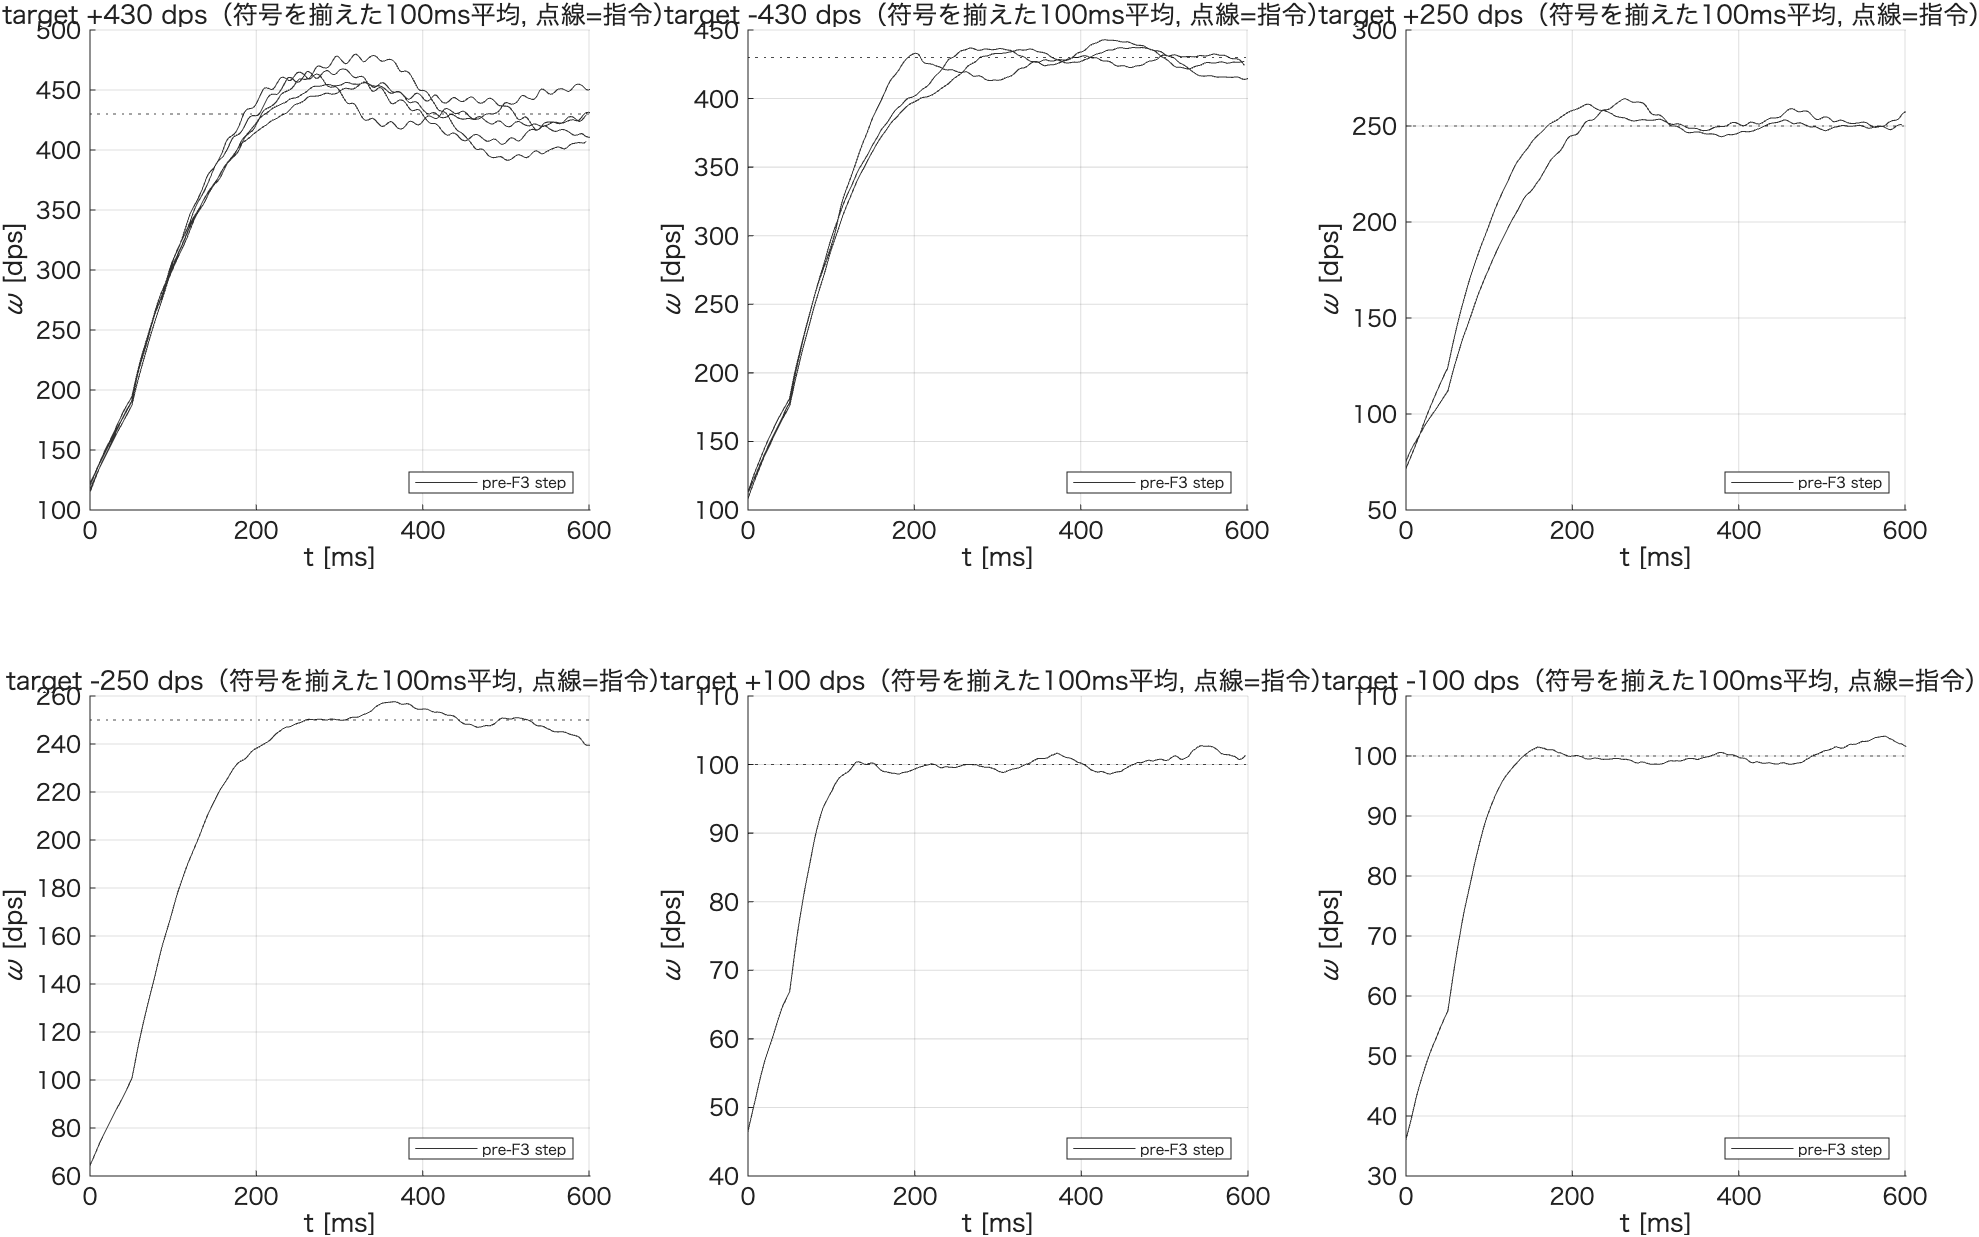
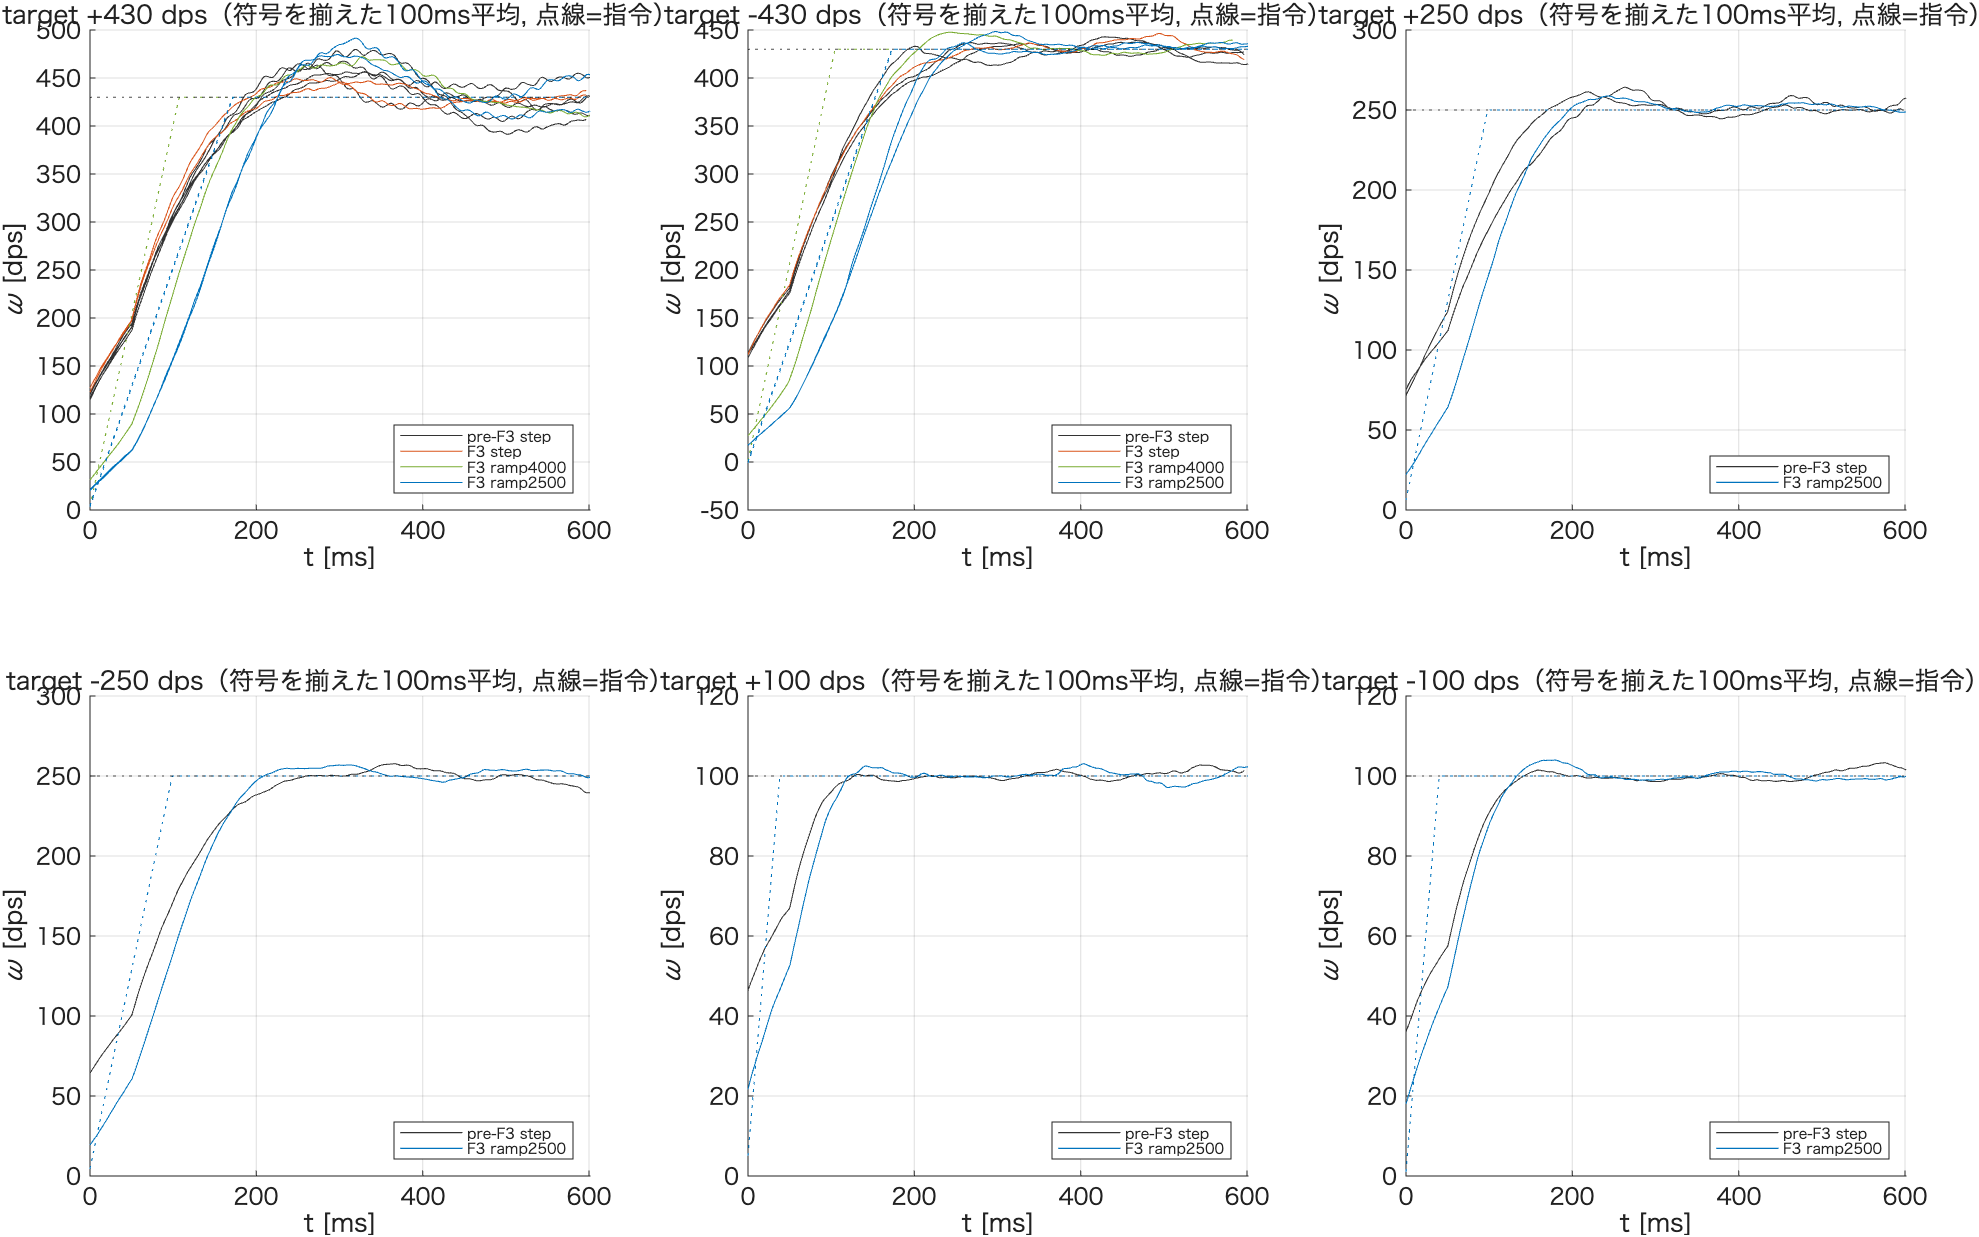
Analyze omega F3 hardware test (E7): ramp does not reduce +side overshoot
The 2500 dps/s^2 ramp keeps -430, +-250 and +-100 within criteria but gives
10-14% overshoot at +430 (step: 4-12%), with the same peak height. Local plant
regression on closed-loop data gives T_loc ~290 ms on the + side vs ~75 ms on
the - side, so Ti(430)=65 ms is far below T_loc on the + side; a linear
sensitivity map shows overshoot is set by Ti/T_loc. Proposes a direction
dependent Ti table (F4, not implemented).

diff --git a/data_analysis2/rot_local_model_fit.m b/data_analysis2/rot_local_model_fit.m
@@ -1,0 +1,50 @@
+%% 閉ループ実機データから動作点まわりの局所プラント（ゲイン・時定数）を推定し，オーバーシュートの原因を調べる
+%
+% 背景：+430/+400でステップ指令でもランプ指令でも同程度(8〜14%)のオーバーシュートが出る。
+% 0からのstep応答から作ったプラントモデル(H1/H4)は実機のOSを再現できない(rot_gain_scheduling_plan.md §12, §14)。
+% PI(Kc, Ti)＋一次遅れ(K, T)では，Ti < T のときPIの零点がプラントの極より速く，指令の形によらず
+% オーバーシュートが出る。実機の閉ループデータで局所的な T を直接推定して確かめる。
+%
+% 手法：定常付近(ωが目標の70%超)の区間で，スムージングした ω̇ を u と ω に回帰
+%       d(w)/dt = c + a*u - b*w        （K_loc = a/b [dps/duty], T_loc = 1/b [s]）
+% 閉ループ(uがωに依存)のため同定はバイアスを持ちうる。グループ内のrun間ばらつきと，
+% 推定した局所モデル上でのPI閉ループ模擬が実測OSを再現するかで妥当性を判断する。
+
+clear; clc;
+results_dir = 'results';
+dirs = {'../tools/log/omega_step_v700_x/', '../tools/log/omega_ramp_v700_x/'};
+
+% 対象：|目標|=430の全run（+と-）を，方向×指令方式で集計
+L = [dir([dirs{1} 'omega_*430*.csv']); dir([dirs{2} 'omega_*430*.csv'])];
+recs = struct('file', {}, 'tgt', {}, 'kind', {}, 'a', {}, 'b', {}, 'Tloc', {}, 'Kloc', {}, 'n', {});
+smn = 30;   % ω, u, ω̇ のスムージング窓 [ms]
+for k = 1:numel(L)
+    fn = L(k).name; folder = L(k).folder;
+    T = readtable(fullfile(folder, fn), 'VariableNamingRule', 'modify');
+    on = find(T.target_omega ~= 0, 1, 'first');
+    if isempty(on), continue; end
+    tgt = T.target_omega(on);
+    if contains(fn, 'ramp4k'), kind = 'ramp4k'; elseif contains(fn, 'ramp'), kind = 'ramp'; else, kind = 'step'; end
+    idx = on:height(T);
+    w = movmean(T.gyro_z(idx), smn);
+    u = movmean(T.duty_diff(idx), smn);
+    dw = gradient(w) / 1e-3;          % [dps/s]
+    dw = movmean(dw, smn);
+    s = sign(tgt);
+    sel = (s * w > 0.7 * abs(tgt)) & ((1:numel(w))' > smn) & ((1:numel(w))' < numel(w) - smn);
+    if sum(sel) < 100, continue; end
+    % 符号を揃えて回帰（ω>0, u>0, ω̇の符号を統一）
+    X = [ones(sum(sel), 1), s * u(sel), -s * w(sel)];
+    y = s * dw(sel);
+    p = X \ y;
+    recs(end + 1) = struct('file', fn, 'tgt', tgt, 'kind', kind, 'a', p(2), 'b', p(3), 'Tloc', 1 / p(3), 'Kloc', p(2) / p(3), 'n', sum(sel)); %#ok<SAGROW>
+end
+R = struct2table(recs);
+disp(R(:, {'file', 'tgt', 'kind', 'a', 'b', 'Tloc', 'Kloc', 'n'}));
+
+for sg = [1 -1]
+    m = sign(R.tgt) == sg & R.b > 0;
+    fprintf('\n方向%+d: n=%d  T_loc 中央値=%.0f ms (四分位 %.0f〜%.0f), K_loc 中央値=%.0f dps/duty, a 中央値=%.0f\n', sg, sum(m), ...
+        1000 * median(R.Tloc(m)), 1000 * prctile(R.Tloc(m), 25), 1000 * prctile(R.Tloc(m), 75), median(R.Kloc(m)), median(R.a(m)));
+end
+writetable(R, fullfile(results_dir, 'rot_local_model_fit.csv'));

diff --git a/data_analysis2/rot_pi_linear_os_map.m b/data_analysis2/rot_pi_linear_os_map.m
@@ -1,0 +1,48 @@
+%% PI(Kc, Ti) と局所プラント K/(Ts+1) の組合せに対するオーバーシュートの感度マップ（指令ステップ）
+%
+% 動作点(≈±430dps)まわりの局所線形モデルで，指令を10%ステップさせたときのオーバーシュートを計算する。
+% 目的：実機の +側(T_loc 大, K_loc 大)で OS が大きく，-側(T_loc≈75ms)で小さい理由を，
+% Ti と T_loc の比で説明できるか確認し，Ti/Kc をどう変えれば OS を下げられるか見積もる。
+% （実測の局所T, Kは閉ループ回帰で不確かさが大きい: rot_local_model_fit.m。ここは感度の見積りで，
+%  絶対値の予測ではない。1kHz離散, 1サンプル遅れ）
+
+clear; clc;
+results_dir = 'results';
+Kc_list = [3e-4 5e-4 8e-4];
+plants = [75 1700; 100 3000; 150 4000; 200 6000; 300 6000];   % [T_loc ms, K_loc dps/duty]
+Ti_list = [0.0653 0.09 0.13 0.18 0.25];                       % [s]（現行 Ti(430)=65.3ms）
+
+fprintf('OS%% (指令+10%%ステップ, 線形局所モデル)   行: プラント(T[ms],K)  列: Ti[ms]\n');
+rows = {};
+for Kc = Kc_list
+    fprintf('\nKc = %.1e\n', Kc);
+    fprintf('%-16s', 'plant \ Ti[ms]'); fprintf('%8.0f', Ti_list * 1000); fprintf('   |  Kc*K  |  90%%到達[ms]@現行Ti\n');
+    for p = 1:size(plants, 1)
+        Tp = plants(p, 1) / 1000; K = plants(p, 2);
+        os = zeros(1, numel(Ti_list)); r90 = zeros(1, numel(Ti_list));
+        for i = 1:numel(Ti_list)
+            [os(i), r90(i)] = sim_lin(Kc, Ti_list(i), K, Tp);
+            rows(end + 1, :) = {Kc, Ti_list(i), plants(p, 1), K, os(i), r90(i)}; %#ok<SAGROW>
+        end
+        fprintf('T=%3d K=%5d   ', plants(p, 1), K); fprintf('%8.1f', os); fprintf('   | %5.1f  | %6.0f\n', Kc * K, r90(1));
+    end
+end
+R = cell2table(rows, 'VariableNames', {'Kc', 'Ti_s', 'T_loc_ms', 'K_loc', 'os_pct', 'r90_ms'});
+writetable(R, fullfile(results_dir, 'rot_pi_linear_os_map.csv'));
+
+function [os, r90] = sim_lin(Kc, Ti, K, Tp)
+    % 出力 w [dps]，制御 u = Kc*e + I，プラント dw/dt = (K*u - w)/Tp，1サンプル遅れの測定
+    Ts = 1e-3; N = 1500; ref = 430;
+    w = 0; I = 0; wprev = 0; wl = zeros(N, 1);
+    for k = 1:N
+        e = ref - wprev;
+        u = Kc * e + I;
+        I = I + Kc / Ti * e * Ts;
+        w = w + Ts * (K * u - w) / Tp;
+        wprev = w; wl(k) = w;
+    end
+    wl = wl / ref;
+    os = max(0, max(wl) - 1) * 100;
+    i = find(wl >= 0.9, 1, 'first');
+    if isempty(i), r90 = NaN; else, r90 = i; end
+end

diff --git a/data_analysis2/omega_ramp_analyze.m b/data_analysis2/omega_ramp_analyze.m
@@ -49,7 +49,13 @@ for d = 1:numel(dirs)
         r.r90 = ternary(isempty(i90), NaN, tr(i90) * 1000);
         i10 = find(abs(g100 - tgt) > 0.10 * abs(tgt), 1, 'last');
         r.set10 = ternary(isempty(i10), 0, tr(i10) * 1000);
-        r.sat_pct = 100 * mean(T.omega_saturated(idx) > 0);
+        % F3ファームの初回ログは列数上限(Logger::MAX_FIELDS=16)でomega_saturatedが欠落している
+        % （修正済み）。無い場合は出力が上限(0.28)に張り付いた区間で代用する
+        if ismember('omega_saturated', T.Properties.VariableNames)
+            r.sat_pct = 100 * mean(T.omega_saturated(idx) > 0);
+        else
+            r.sat_pct = 100 * mean(abs(u) >= 0.2795);
+        end
         r.vdrop = 100 * (700 - min(movmean(v, 20))) / 700;
         if has_ref
             ref = T.omega_ref(idx);
